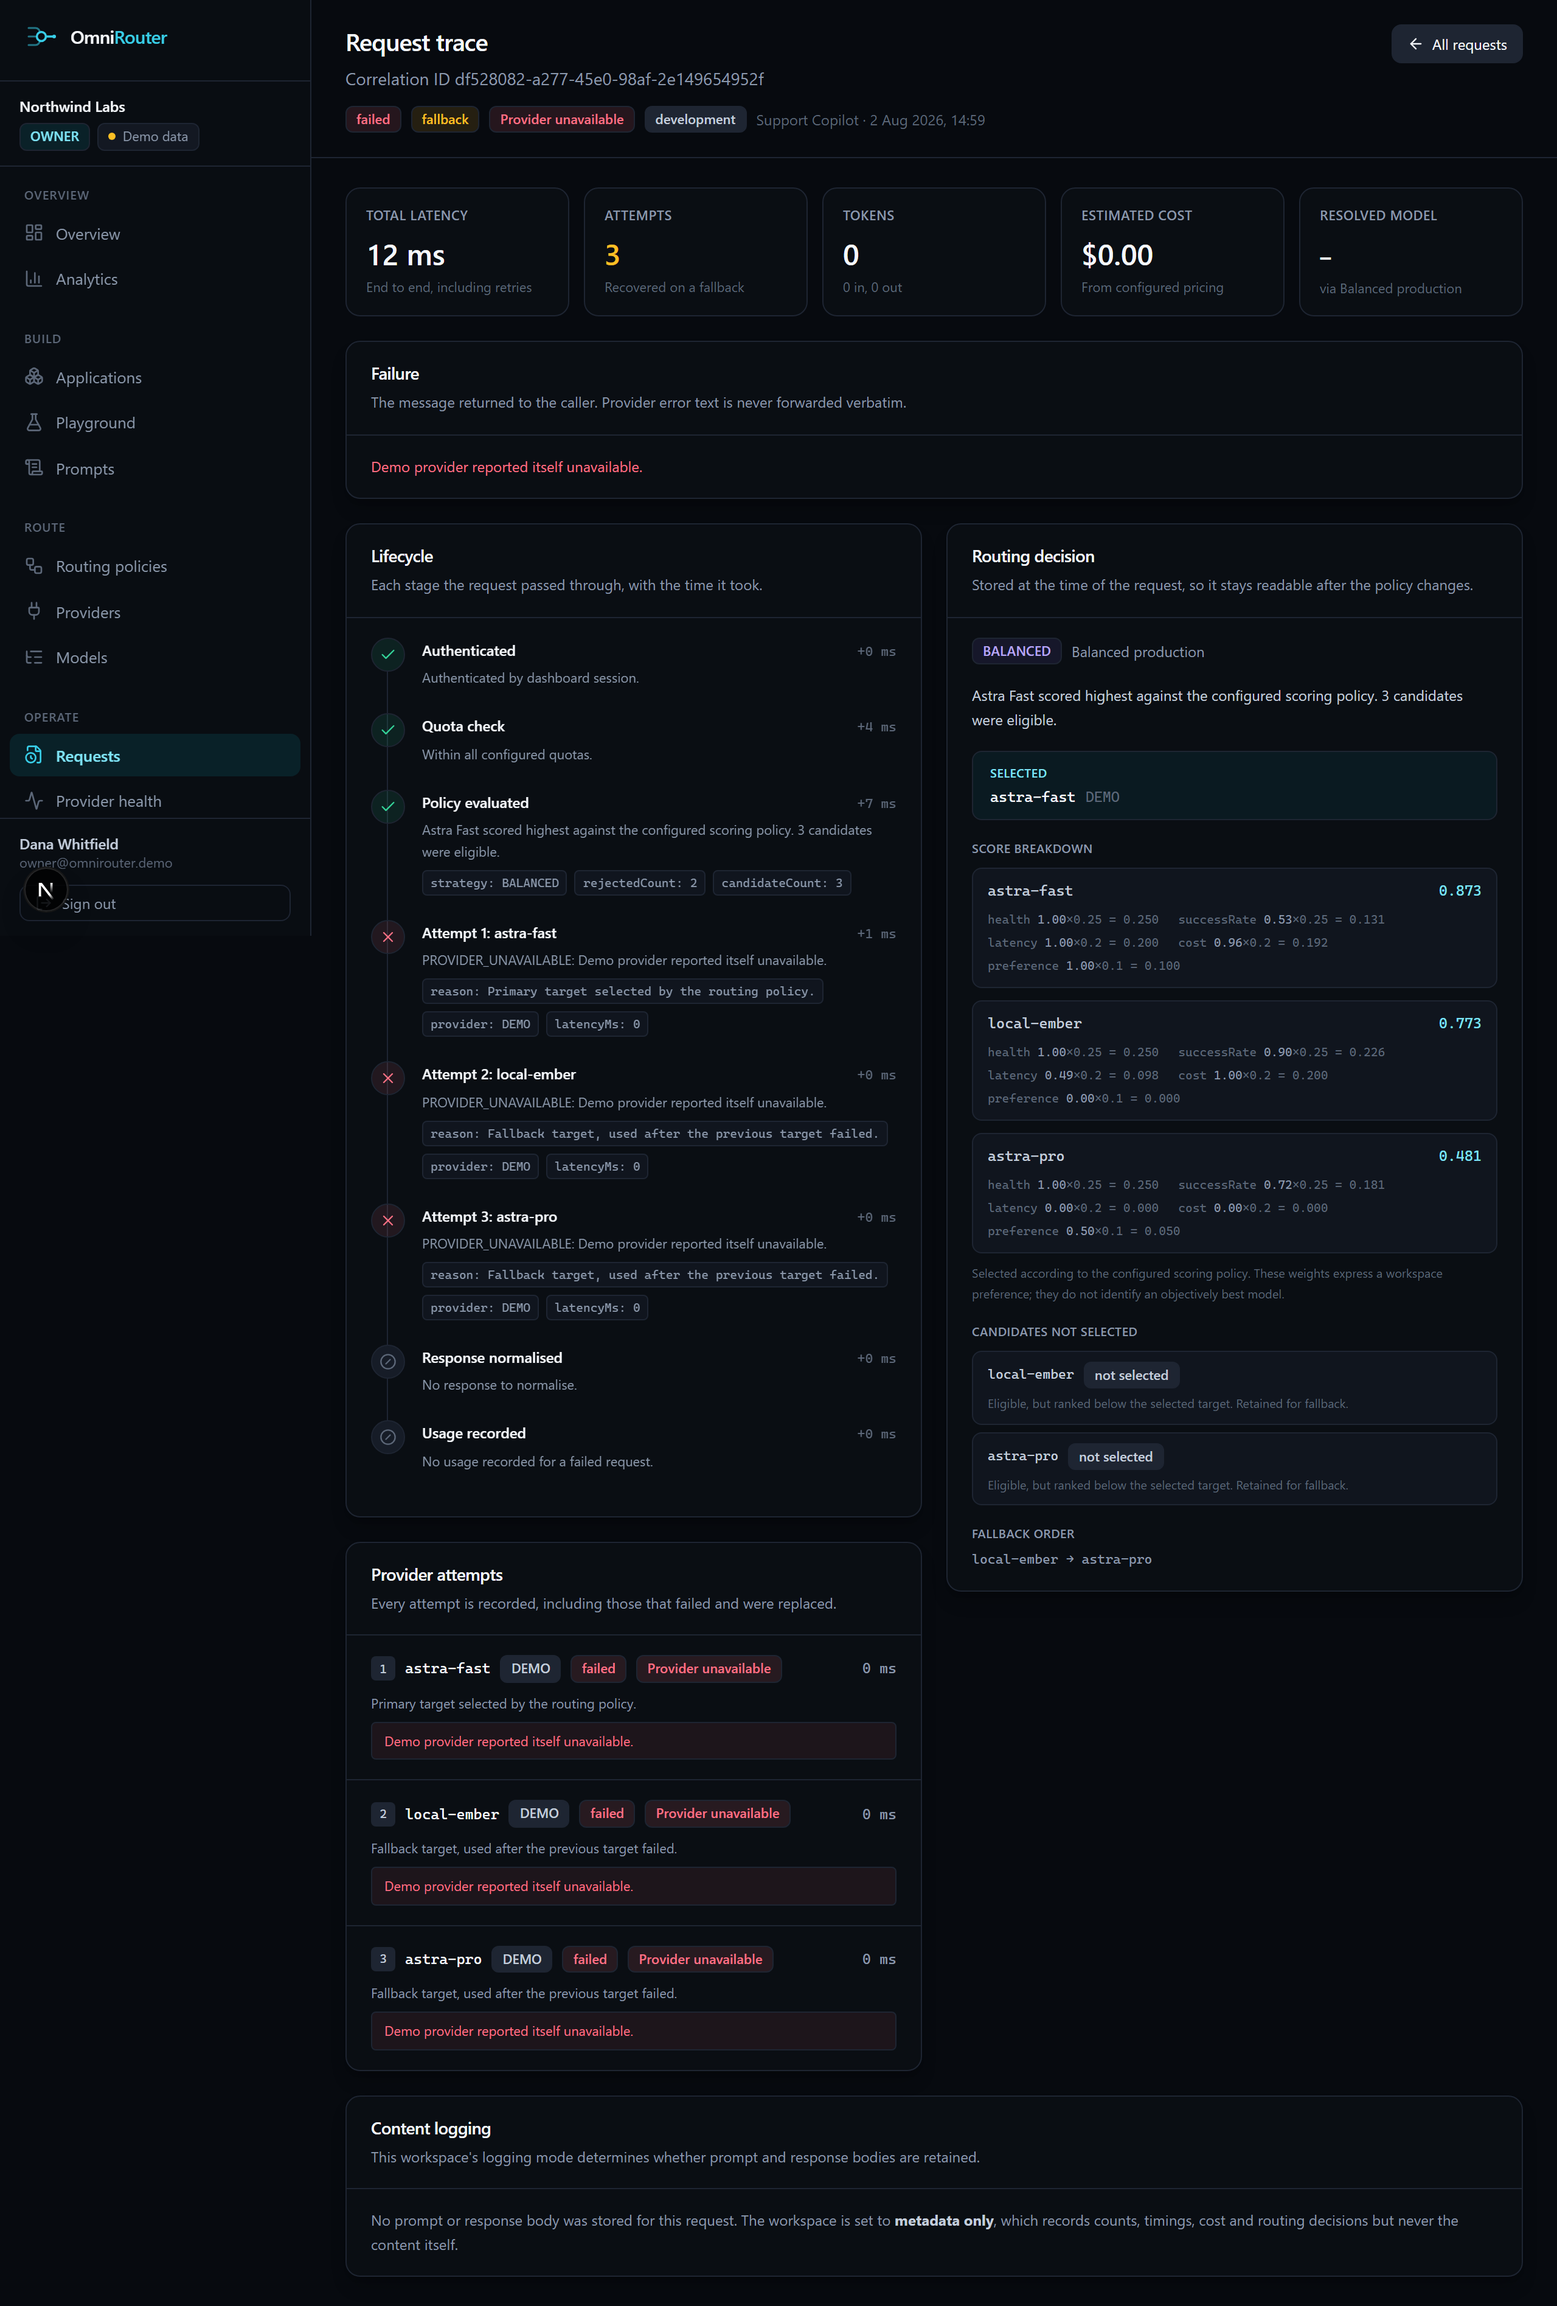
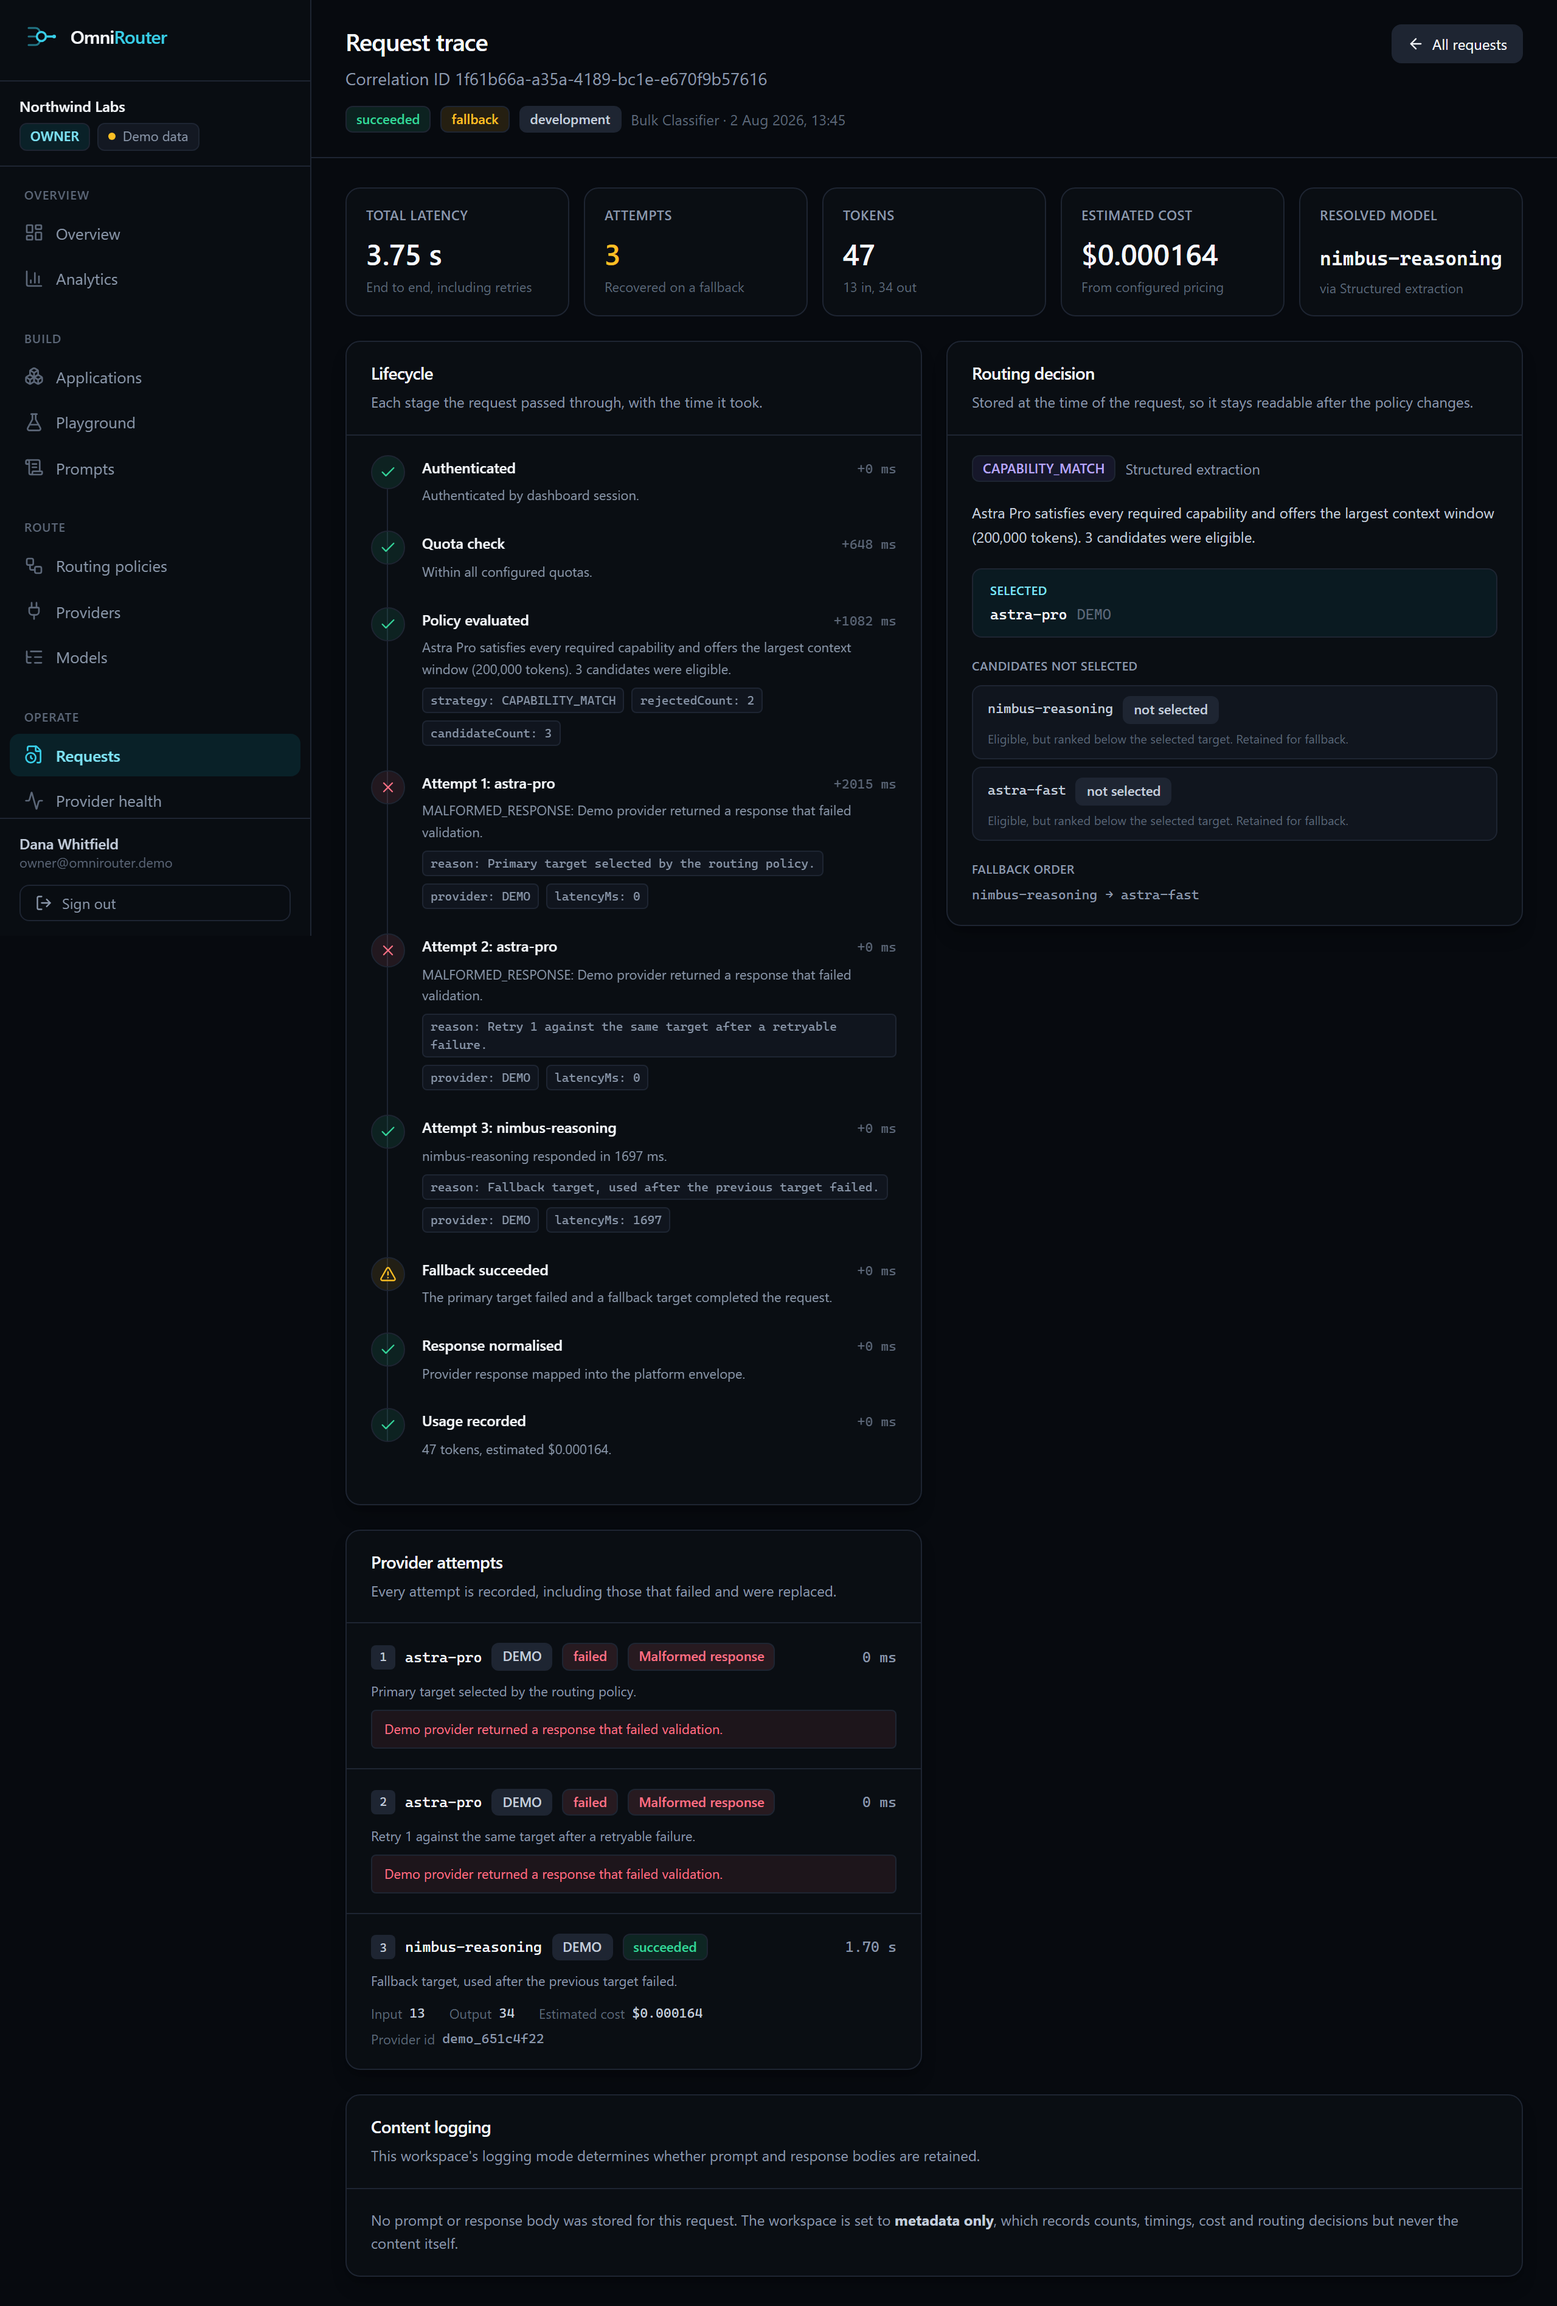
docs: record verified live deployment and final status
The application is deployed at https://omnirouter-ai.vercel.app on Neon
PostgreSQL, migrated and seeded, with all 28 routes verified 2xx in
production and no console errors.

Also excludes the agent-skill artifacts the Neon marketplace integration
installs locally, and re-negates .env.example after the integration
re-appended a bare .env* to .gitignore.

diff --git a/docs/FINAL_PROJECT_REPORT.md b/docs/FINAL_PROJECT_REPORT.md
@@ -14,7 +14,7 @@ The distinguishing contribution is that **a routing decision is a persisted arte
 
 The application is complete and verified locally. `npm run verify` passes, 124 tests pass, all 28 routes render, and 18/18 demonstration checks hold.
 
-**Publication to GitHub and deployment to Vercel remain blocked on GitHub authentication**, which requires an interactive login only the project owner can perform.
+**Published and deployed.** The repository is public at `arslanvuzmal/omnirouter-ai` with CI passing every step, and the application is live at **https://omnirouter-ai.vercel.app**, verified end to end against its production database.
 
 ---
 
@@ -183,23 +183,24 @@ The attempt strip is the moment the product lands. Give it room.
 ```
 LOCAL PROJECT:      D:\OmniRouter AI
 BACKUP:             not required — no pre-existing project found
-GITHUB:             BLOCKED — gh not authenticated
-LATEST COMMIT:      d67a1a8
+GITHUB:             https://github.com/arslanvuzmal/omnirouter-ai (public)
+LATEST COMMIT:      see `git log -1` — history is 11 commits, single author
 GIT AUTHOR:         Arslan Vuzmal Lone <arslanvuzmallone@gmail.com>
 GIT COMMITTER:      Arslan Vuzmal Lone <arslanvuzmallone@gmail.com>
 
 AUTOMATED ASSISTANT CONTRIBUTOR STATUS:
 NOT PRESENT — VERIFIED
+(GitHub reports one contributor: arslanvuzmal, User)
 
-CI:                 workflow committed, not yet run (needs the remote)
-VERCEL:             authenticated as avuzmal; awaiting repository + database
-DATABASE:           PostgreSQL 16 local (:5435), 21 tables, migrated
+CI:                 PASSING — every step green against a PostgreSQL service
+VERCEL:             https://omnirouter-ai.vercel.app (live, verified)
+DATABASE:           Neon PostgreSQL via Vercel marketplace, migrated + seeded
 TESTS:              124 passed, 0 failed
 BUILD:              passed — 30 routes
-DEMO:               18/18 checks passed, 206 requests across 30 days
+DEMO:               18/18 checks passed against the production database
 SCREENSHOTS:        12 captured from the running application
+LIVE VERIFICATION:  28/28 routes 2xx in production, 0 console errors
 
 KNOWN BLOCKERS:
-  1. GitHub authentication — run: gh auth login
-  2. Supabase project not provisioned (needs DATABASE_URL + DIRECT_URL)
+  none — published, CI green, deployed and verified end to end
 ```

diff --git a/README.md b/README.md
@@ -26,8 +26,9 @@
 
 ## Live demo
 
-> **Demo:** _deployment link added once verified live_
-> **Guided walkthrough:** `/demo/story` — six steps, about a minute
+> ### **[omnirouter-ai.vercel.app](https://omnirouter-ai.vercel.app)**
+>
+> **Guided walkthrough:** [`/demo/story`](https://omnirouter-ai.vercel.app/demo/story) — six steps, about a minute
 >
 > **Sign in with any role:**
 >
